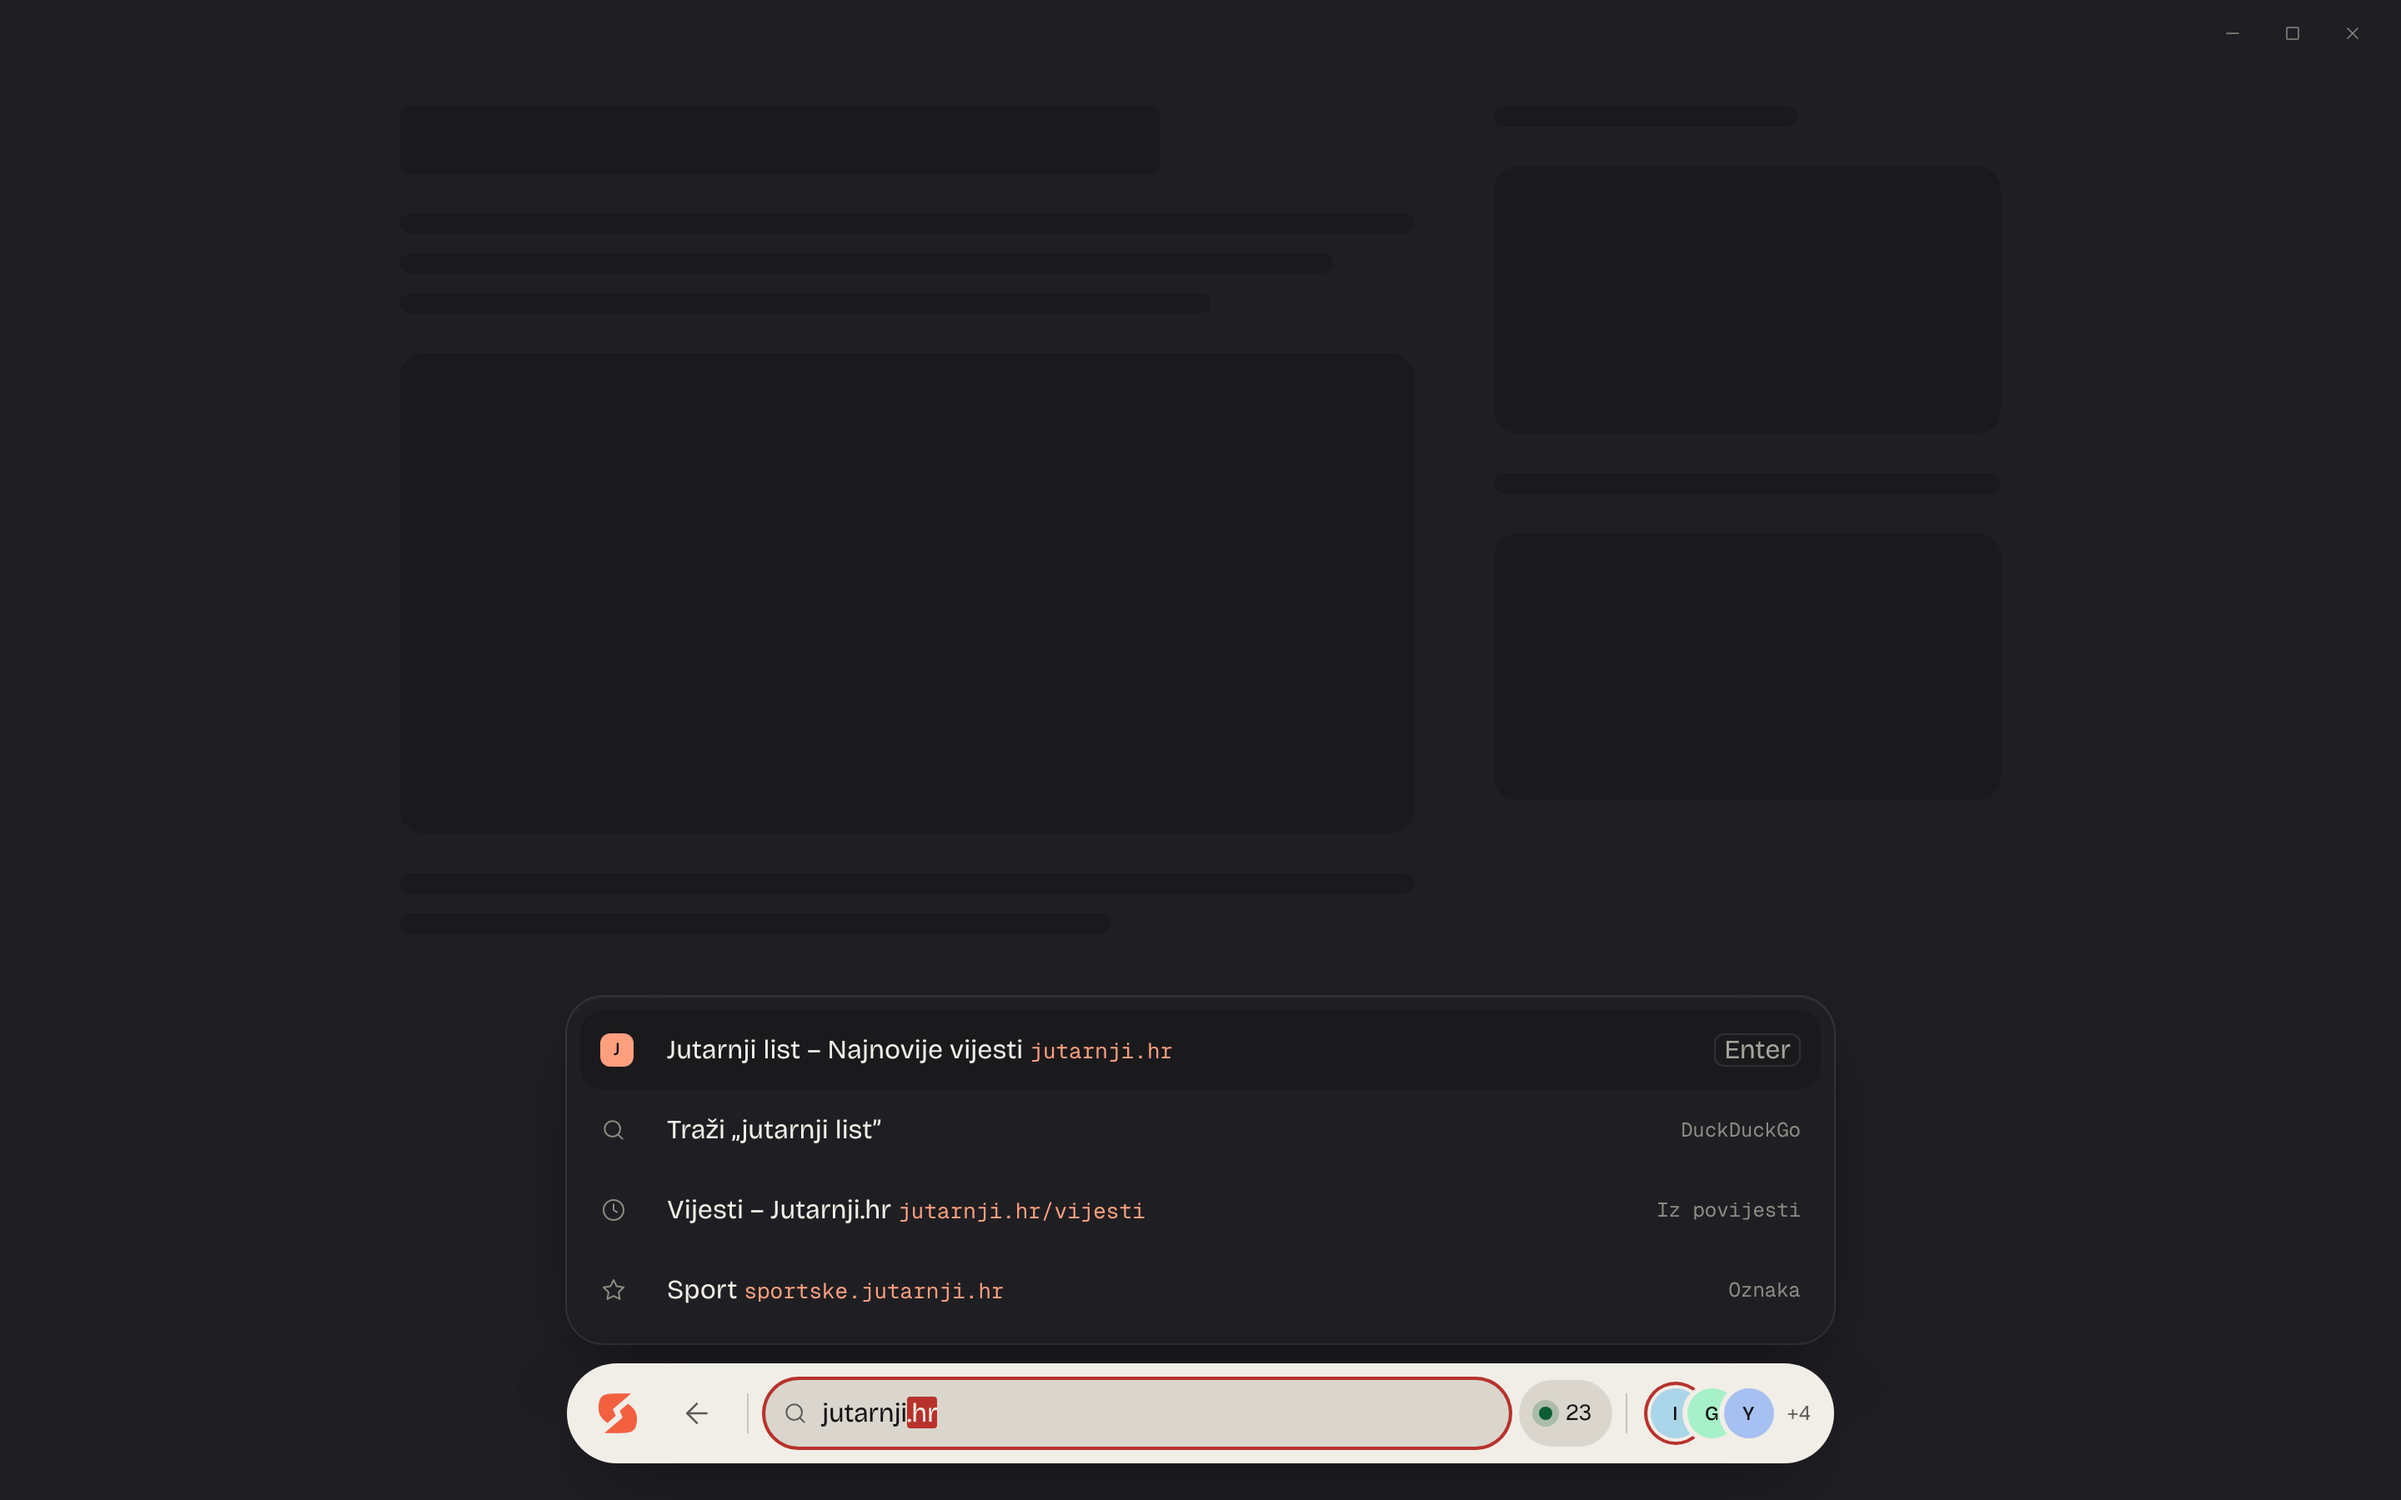
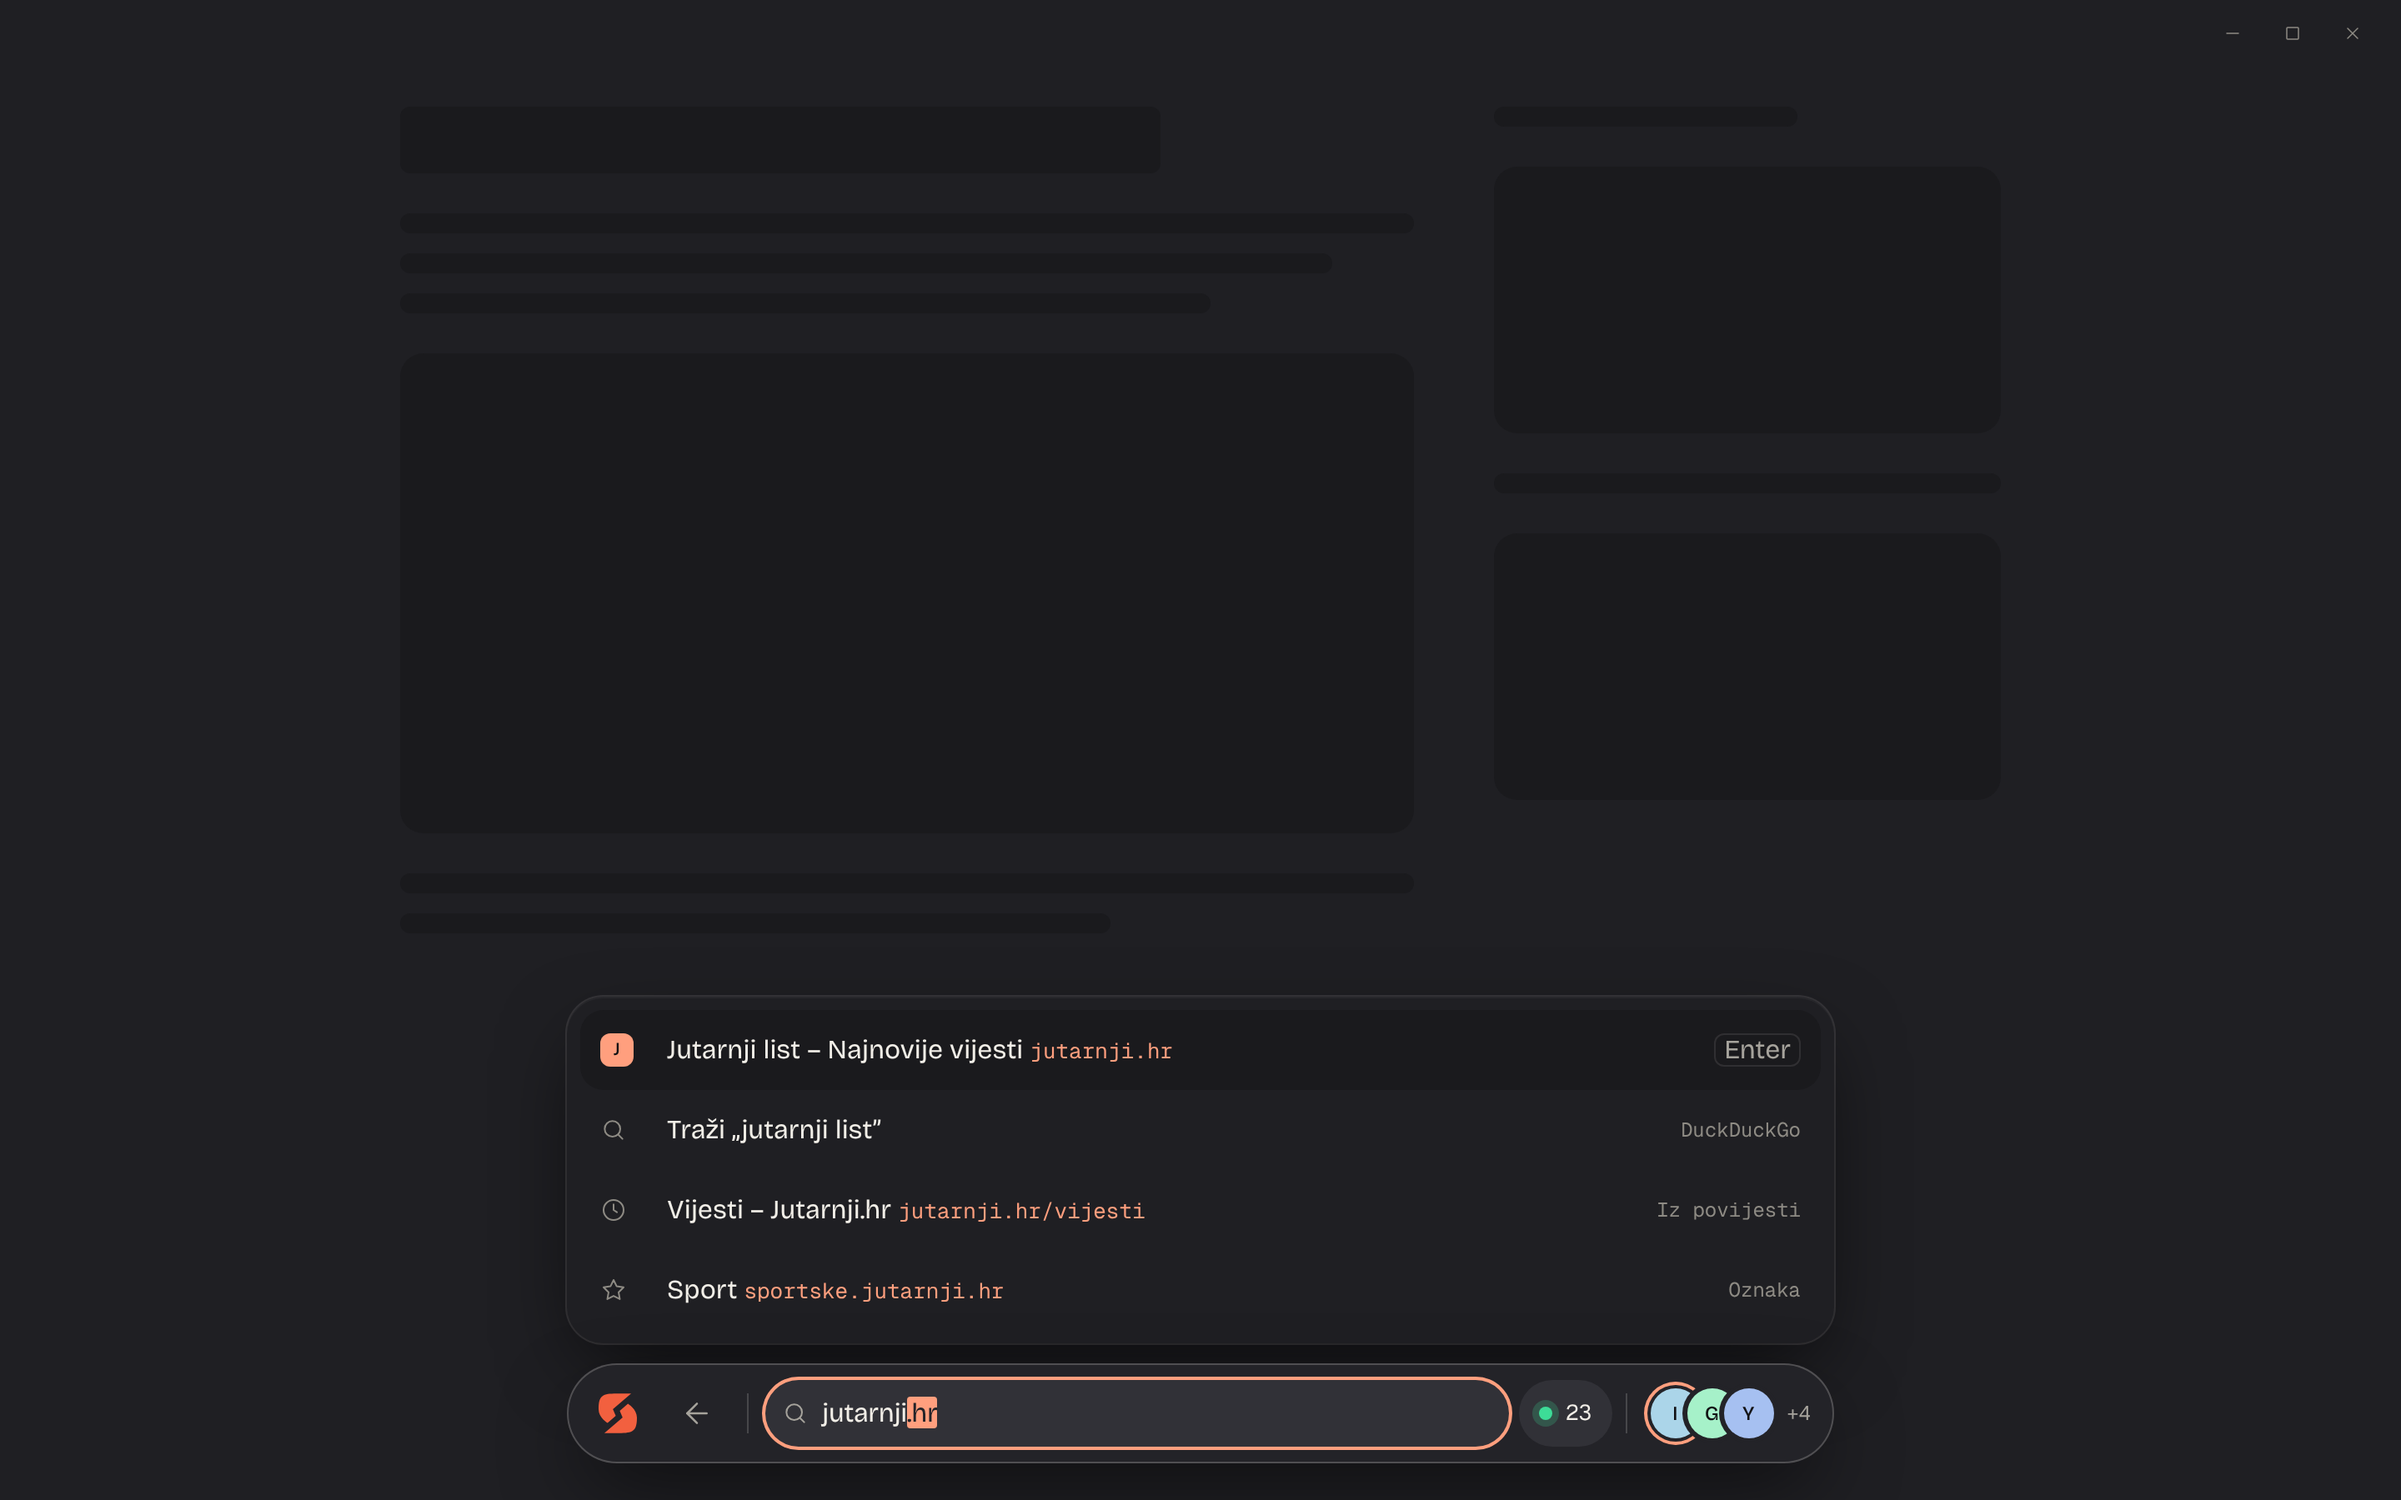
feat(design): keep the island dark in dark theme with a light rim
Owner: no bright bar at night. Dark-theme island is #232328 with a 1 px
paper rim and a deeper shadow; accent on the island is the pastel fill in
both themes. Contrast gate still 204/204.

Claude-Session: https://claude.ai/code/session_01WJb34iBtyd2AMWkEwndgtG

Changed region(s): [[0.2188, 0.9022, 0.7812, 0.9956]]

diff --git a/design/prototypes/mobile/index.html b/design/prototypes/mobile/index.html
@@ -35,7 +35,7 @@
     .ph.img { height: calc(var(--space-80) * 2.6); border-radius: var(--radius-md); margin: var(--space-20) 0; }
 
     /* the island (thumb zone) */
-    .island { position: absolute; left: var(--size-island-mobile-inset); right: var(--size-island-mobile-inset); bottom: max(env(safe-area-inset-bottom), var(--size-island-mobile-inset)); z-index: 20; height: var(--size-island-mobile-height); display: flex; align-items: center; gap: var(--space-2); padding: 0 var(--space-6); border-radius: var(--radius-island); background: var(--island-bg); color: var(--island-text); box-shadow: var(--elev-island); }
+    .island { position: absolute; left: var(--size-island-mobile-inset); right: var(--size-island-mobile-inset); bottom: max(env(safe-area-inset-bottom), var(--size-island-mobile-inset)); z-index: 20; height: var(--size-island-mobile-height); display: flex; align-items: center; gap: var(--space-2); padding: 0 var(--space-6); border-radius: var(--radius-island); background: var(--island-bg); color: var(--island-text); box-shadow: var(--elev-island), inset 0 0 0 1px var(--island-border); }
     .ib { flex: none; width: var(--size-hit-android); height: var(--size-hit-android); display: grid; place-items: center; border: 0; border-radius: var(--radius-full); background: transparent; color: var(--island-text-secondary); }
     .ib .brand-mark { width: var(--space-24); height: var(--space-24); }
     .ib:active { transform: scale(var(--motion-press-scale)); }

diff --git a/design/prototypes/desktop/index.html b/design/prototypes/desktop/index.html
@@ -55,7 +55,7 @@
       position: absolute; left: 50%; bottom: var(--size-island-inset-bottom); z-index: 20;
       width: var(--size-island-width); height: var(--size-island-height); transform: translateX(-50%);
       display: flex; align-items: center; gap: var(--space-4); padding: 0 var(--space-8);
-      border-radius: var(--radius-island); background: var(--island-bg); color: var(--island-text); box-shadow: var(--elev-island);
+      border-radius: var(--radius-island); background: var(--island-bg); color: var(--island-text); box-shadow: var(--elev-island), inset 0 0 0 1px var(--island-border);
       transition: width var(--motion-spring-smooth-duration) var(--motion-spring-smooth);
     }
     .island.swell { width: var(--size-island-width-expanded); }

diff --git a/DESIGN.md b/DESIGN.md
@@ -10,7 +10,7 @@
 
 **Sadržaj od ruba do ruba, sučelje kao jedan predmet.** SCYDE nema traku s tabovima ni toolbar na vrhu. Cijelo sučelje je **otok**: jedan plutajući objekt na dnu prozora koji nosi znak, navigaciju, adresu, Shield i tabove, a širi se kad ga trebaš.
 
-- **Papir i tinta.** Stranica počiva na toplom papiru (light) ili gotovo crnoj tinti (dark). **Otok je uvijek inverz:** tinta na papiru, papir na tinti. Zato ga se uvijek odmah nađe.
+- **Papir i tinta.** Stranica počiva na toplom papiru (light) ili gotovo crnoj tinti (dark). **Otok je uvijek taman:** u light temi je tinta na papiru, a u dark temi tamni otok s tankim svijetlim rubom i sjenom, bez svijetle trake koja noću bljesne u oči (vlasnik, 2026-11-11).
 - **Ember je energija.** Narančasto-crveni Ember pojavljuje se samo tamo gdje je radnja: kursor, aktivni tab, glavni gumb, znak.
 - **Riječi umjesto pločica.** New Tab ne počinje mrežom ikona nego pitanjem "Kamo danas?", u koje se izravno tipka.
 - **Stvarne brojke.** Shield statistika dolazi iz enginea i stoji uz otok, mono fontom.
@@ -41,16 +41,19 @@
 | `text.secondary` | `#5B5A57` | `#A6A39C` | opisi, meta |
 | `text.tertiary` | `#66645F` | `#8E8B84` | hintovi, vremena |
 
-### 2.2 Otok (inverzna površina)
+### 2.2 Otok (uvijek taman)
 
-| Token | Light (tinta) | Dark (papir) |
+| Token | Light | Dark |
 |---|---|---|
-| `island.bg` | `#121214` | `#F1EEE7` |
-| `island.raised` | `#2A2A2E` | `#DAD6CD` |
-| `island.text` | `#F3F1EC` | `#121214` |
-| `island.text-secondary` | `#A8A6A0` | `#5B5A57` |
-| `island.shield` | `#3DDC97` | `#0B5E33` |
-| `elev.island` | `0 18 50 -18 rgba(0,0,0,.45)` | `… rgba(0,0,0,.60)` |
+| `island.bg` | `#121214` | `#232328` |
+| `island.raised` | `#2A2A2E` | `#313137` |
+| `island.text` | `#F3F1EC` | `#F1EEE7` |
+| `island.text-secondary` | `#A8A6A0` | `#A6A39C` |
+| `island.shield` | `#3DDC97` | `#3DDC97` |
+| `island.border` (rub) | – | papir 22 % (1 px) |
+| `elev.island` | `0 18 50 -18 rgba(0,0,0,.45)` | `0 18 50 -12 rgba(0,0,0,.70)` |
+
+Otok ima `box-shadow: var(--elev-island), inset 0 0 0 1px var(--island-border)`.
 
 ### 2.3 Accent (korisnik bira, default **Ember**)
 Accent obilježava "ovdje si": kursor, aktivni tab, fokus prsten i odabrani redak. Svaki accent ima ulogu po površini:
@@ -59,7 +62,7 @@ Accent obilježava "ovdje si": kursor, aktivni tab, fokus prsten i odabrani reda
 |---|---|---|---|
 | `accent.ink` (tekst, ikone) | tamna ink varijanta | pastel | – |
 | `accent.fill` + `accent.on-fill` | pastel + `#121214` | pastel + `#121214` | – |
-| `accent.island` | – | – | light: pastel na tinti; dark: ink na papiru (≥ 3:1) |
+| `accent.island` | – | – | pastel na tamnom otoku u obje teme (≥ 3:1) |
 
 Predlošci: **Ember** (default), Sky, Periwinkle, Lavender, Mint, Onyx. Kod vlastite boje `core/theme` izvodi sve uloge u OKLCH-u i odbija kombinacije ispod AA.
 
@@ -203,5 +206,6 @@ Izlazi: `web/packages/tokens/dist/{css,kotlin,swift,json}`. Generator: `pnpm tok
   - Novi efekti Swell, Pebble, Fan i Caret.
   - Aura mesh pozadine su uklonjene.
   - Contrast gate je proširen na parove na otoku (204 para).
+  - Otok u dark temi ostaje taman s rubom (umjesto svijetlog otoka), na zahtjev vlasnika.
   - Ikona i znak: vlasnikov **SCYDE S** zamjenjuje Aura S; po želji vlasnika je u **Ember** boji (prvo lime, pa prebačeno), tokeni `brand.mark` i `brand.ink`.
 - **v1.0 (Faza 0.2):** "Aura" (u git povijesti).
